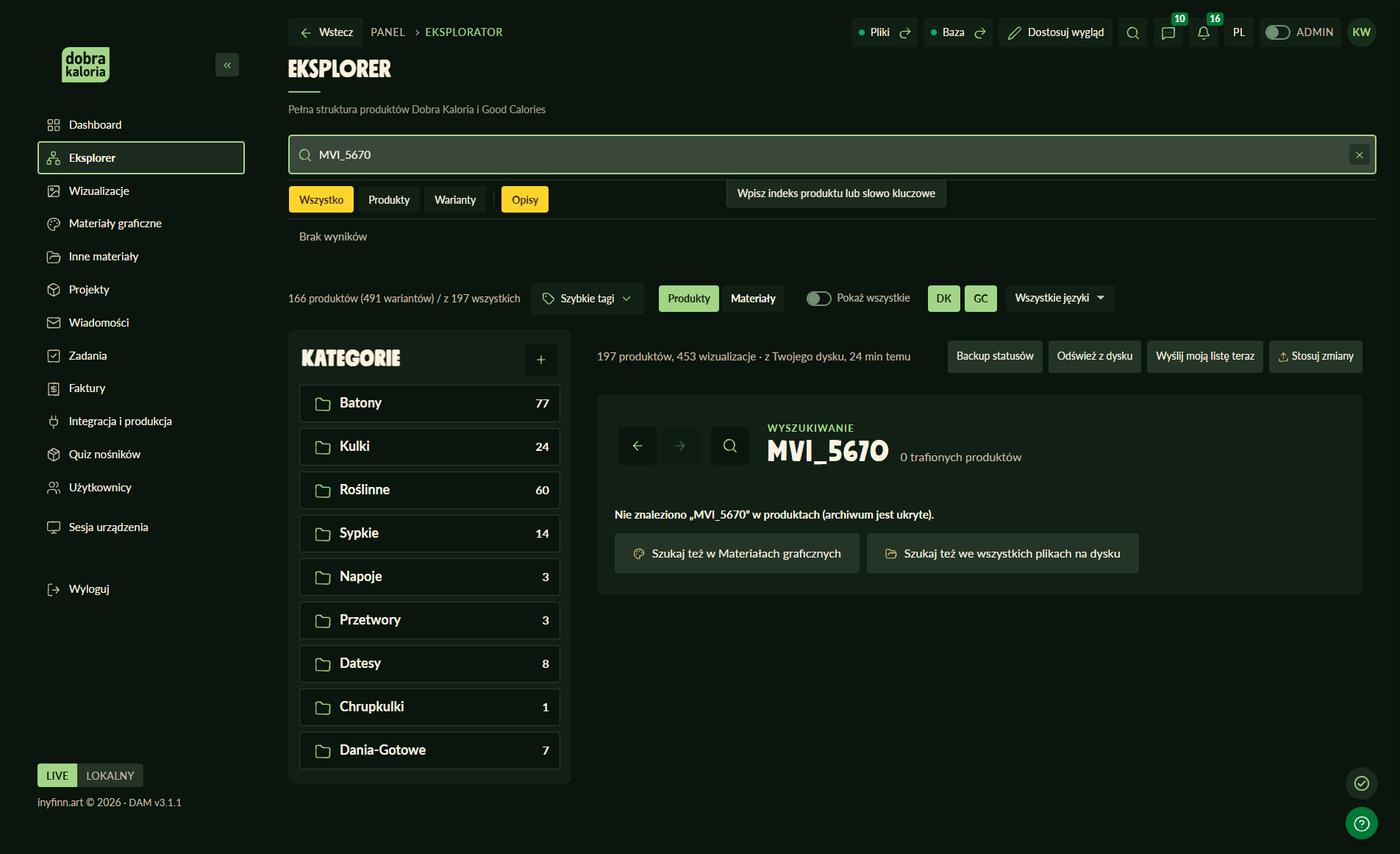
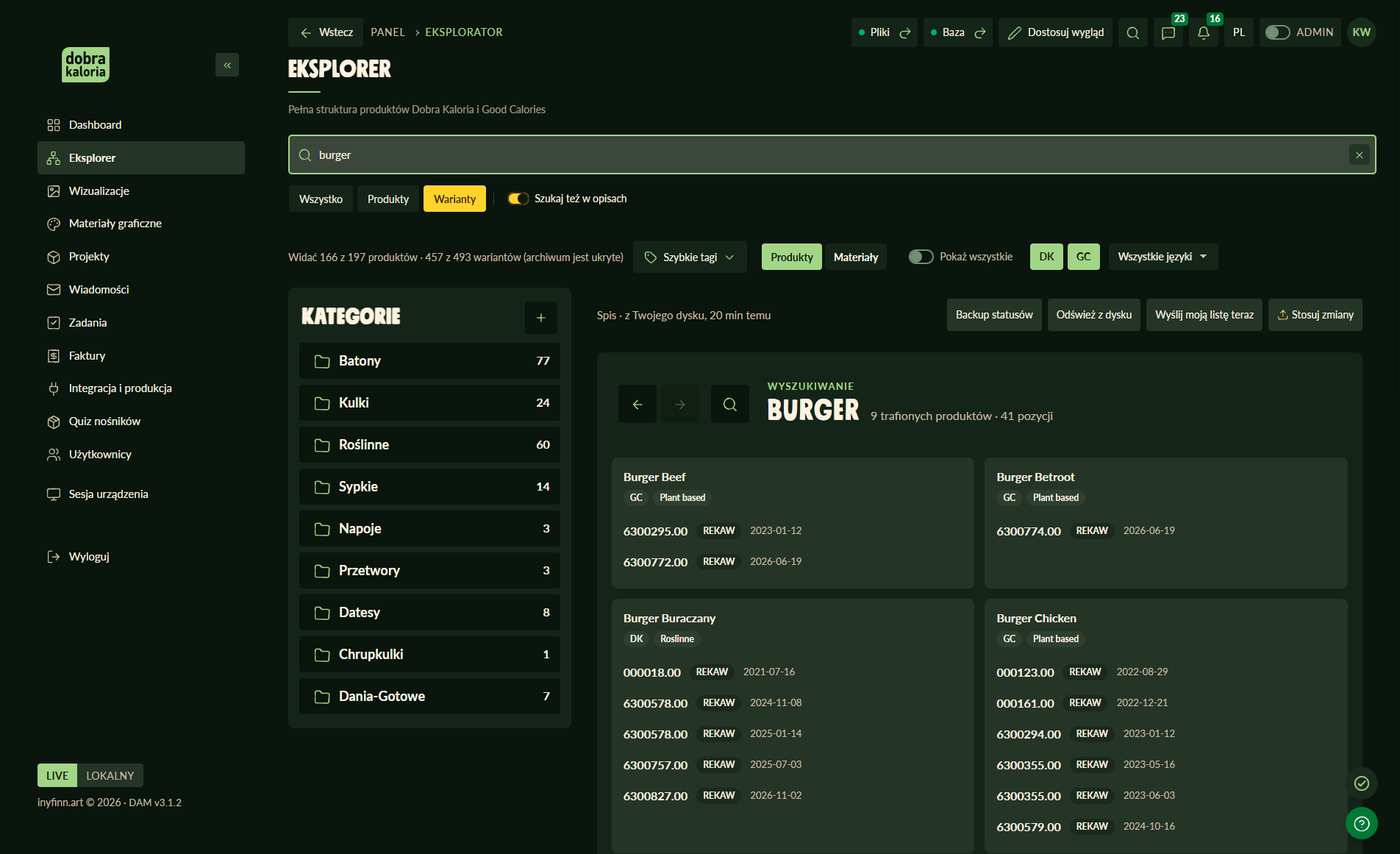
3.1.4: README - Materialy bez Innych, wspolny pasek filtrow, projekty i warianty (zrzuty)

diff --git a/README.md b/README.md
@@ -7,14 +7,20 @@
 ## Co potrafi
 
 ### Wizualizacje
-Galeria packshotów z domyślnym widokiem tylko najnowszych wersji, więc nic starego nie miesza się do pracy. Produkty filtrujesz tagami (smak, typ, opakowanie, autor, opis, podkategoria), sortujesz i skalujesz kafle. Kliknięcie otwiera okno produktu z wariantami, perspektywami (przód, tył), tłem i jakością pliku oraz powiązanymi materiałami.
+Galeria packshotów z domyślnym widokiem tylko najnowszych wersji, więc nic starego nie miesza się do pracy. Produkty filtrujesz tagami (smak, typ, opakowanie, autor, opis, podkategoria), sortujesz i skalujesz kafle. Kliknięcie otwiera okno produktu z wariantami, perspektywami (przód, tył), tłem i jakością pliku oraz powiązanymi materiałami. Wizualizacje i&nbsp;Materiały mają ten sam pasek filtrów: zakładki, tagi, przełączniki, DK/GC, zakresy dat (także „Poprzedni miesiąc”) i&nbsp;jeden format licznika.
 
 ![Wizualizacje](docs/img/01-wizualizacje.png)
+
+![Wspólny pasek filtrów](docs/img/11-wizualizacje-pasek.png)
 
 ### Eksplorer
 Pełna struktura produktów z kategoriami po lewej: produkty, warianty i ich pliki jako kafelki. Każdy wariant ma przełącznik Aktualny / Nieaktualny i listę kompletności (plik źródłowy, podgląd PDF, pliki do druku, wizualizacje). Kliknięcie pozycji listy otwiera menu działań: przy brakującym pliku „Zgłoś zapotrzebowanie” albo „Otwórz folder wariantu”, przy obecnym „Otwórz”, „Pokaż w folderze”, „Kopiuj ścieżkę”. Szukasz po indeksie, nazwie albo skojarzeniu, a „Odśwież miniatury” buduje podglądy od nowa z plików na dysku.
 
+Wyniki szukania to kafle produktów z&nbsp;wariantami i&nbsp;jeden licznik. Eksplorer bez wyniku podpowiada dwa kroki dalej.
+
 ![Eksplorer](docs/img/02-eksplorer.png)
+
+![Eksplorer: wyniki jako kafle](docs/img/10-eksplorer-szukaj-dalej.png)
 
 ### Zadania i Asana w obie strony
 Każdy łączy swoje konto Asany raz (Integracje → Asana, osobisty token) i od tej chwili widzi w DAM tylko swoje zadania, na każdym komputerze. Ptaszek w DAM zamyka zadanie w Asanie, a zmiany z Asany pojawiają się w DAM po kilkunastu sekundach. W Wiadomościach rozwinięte zadanie pokazuje, kto je ma, na kiedy, w jakim projekcie i do czego należy, a „Otwórz w Asanie” otwiera aplikację Asana. Zgłoszenie zapotrzebowania może od razu utworzyć zadanie w Asanie.
@@ -28,14 +34,17 @@ Reklamy, filmy, banery, loga i grafiki marki w jednym katalogu, z podziałem na 
 
 ![Materiały graficzne](docs/img/03-materialy-graficzne.png)
 
-### Inne materiały i pokrycie
-Każdy plik multimedialny z dysku Marketing jest w&nbsp;programie. To, czego nie ma w&nbsp;Materiałach ani w&nbsp;Eksploratorze (wideo, zdjęcia RAW z&nbsp;aparatu, audio, projekty After Effects), trafia na stronę Inne materiały: z&nbsp;miniaturą, szukaniem po nazwie i&nbsp;ścieżce oraz przyciskiem „Pokaż w&nbsp;folderze”. Ustawienia → Pokrycie materiałów po każdym przeglądzie liczą, czy program pokazuje wszystko: „Pokrycie: 100%” albo lista braków, a&nbsp;foldery nieczytelne są osobno. Eksplorer bez wyniku podpowiada dwa kroki dalej.
+### Materiały graficzne: wszystko poza wizualizacjami
+Materiały pokazują wszystko, co jest na dysku Marketing poza wizualizacjami produktów, bez osobnej strony „Inne materiały”. Domyślnie widać gotowe grafiki. Przełączniki dokładają pliki źródłowe (AI, PSD, INDD, AEP), wideo i&nbsp;prezentacje, archiwum albo wszystko z&nbsp;dysku. Kopie wizek nie dublują się w&nbsp;Materiałach. Podglądy SVG, wideo i&nbsp;GIF grają po najechaniu, a&nbsp;pliki AI, INDD i&nbsp;PPTX mają miniatury. Kafle nie mają obrysów ani podkreśleń, a&nbsp;„Pokaż w&nbsp;folderze” otwiera folder od&nbsp;razu.
 
-![Inne materiały](docs/img/07-inne-materialy.png)
+![Materiały graficzne: wszystko poza wizualizacjami](docs/img/07-materialy-wszystko.png)
+
+Ustawienia → Pokrycie materiałów po każdym przeglądzie liczą, czy program pokazuje wszystko: „Pokrycie: 100%” albo lista braków, a&nbsp;foldery nieczytelne są osobno.
 
 ![Pokrycie materiałów](docs/img/08-pokrycie.png)
 
-![Eksplorer: szukaj dalej](docs/img/10-eksplorer-szukaj-dalej.png)
+### Projekty opakowań
+Produkt jest kompletny, gdy ma komplet w&nbsp;którymś wariancie. W&nbsp;projekcie każdy wariant ma kafel z&nbsp;listą „jest” / „brak” / „brak, jest w&nbsp;innym wariancie”, a&nbsp;„W toku” pokazuje zadanie z&nbsp;Asany (projekt „Zmiany bieżących opakowań”). Bez połączonej Asany Zadania pokazują przycisk „Połącz Asanę”.
 
 ### Pomoc w każdym miejscu
 Znak zapytania (lub klawisz F1) otwiera panel "Pomóż mi tutaj": krótkie wskazówki dla bieżącej strony z przyciskami "Pokaż mi", które podświetlają element na ekranie, samouczek, lista skrótów klawiszowych i słowniczek. Dobrokaloriuś prowadzi przez program, a bez myszy da się przełączać strony (Alt+1...9), szukać (`/` albo Ctrl+K) i chodzić po kaflach klawiszami Tab i strzałkami.
